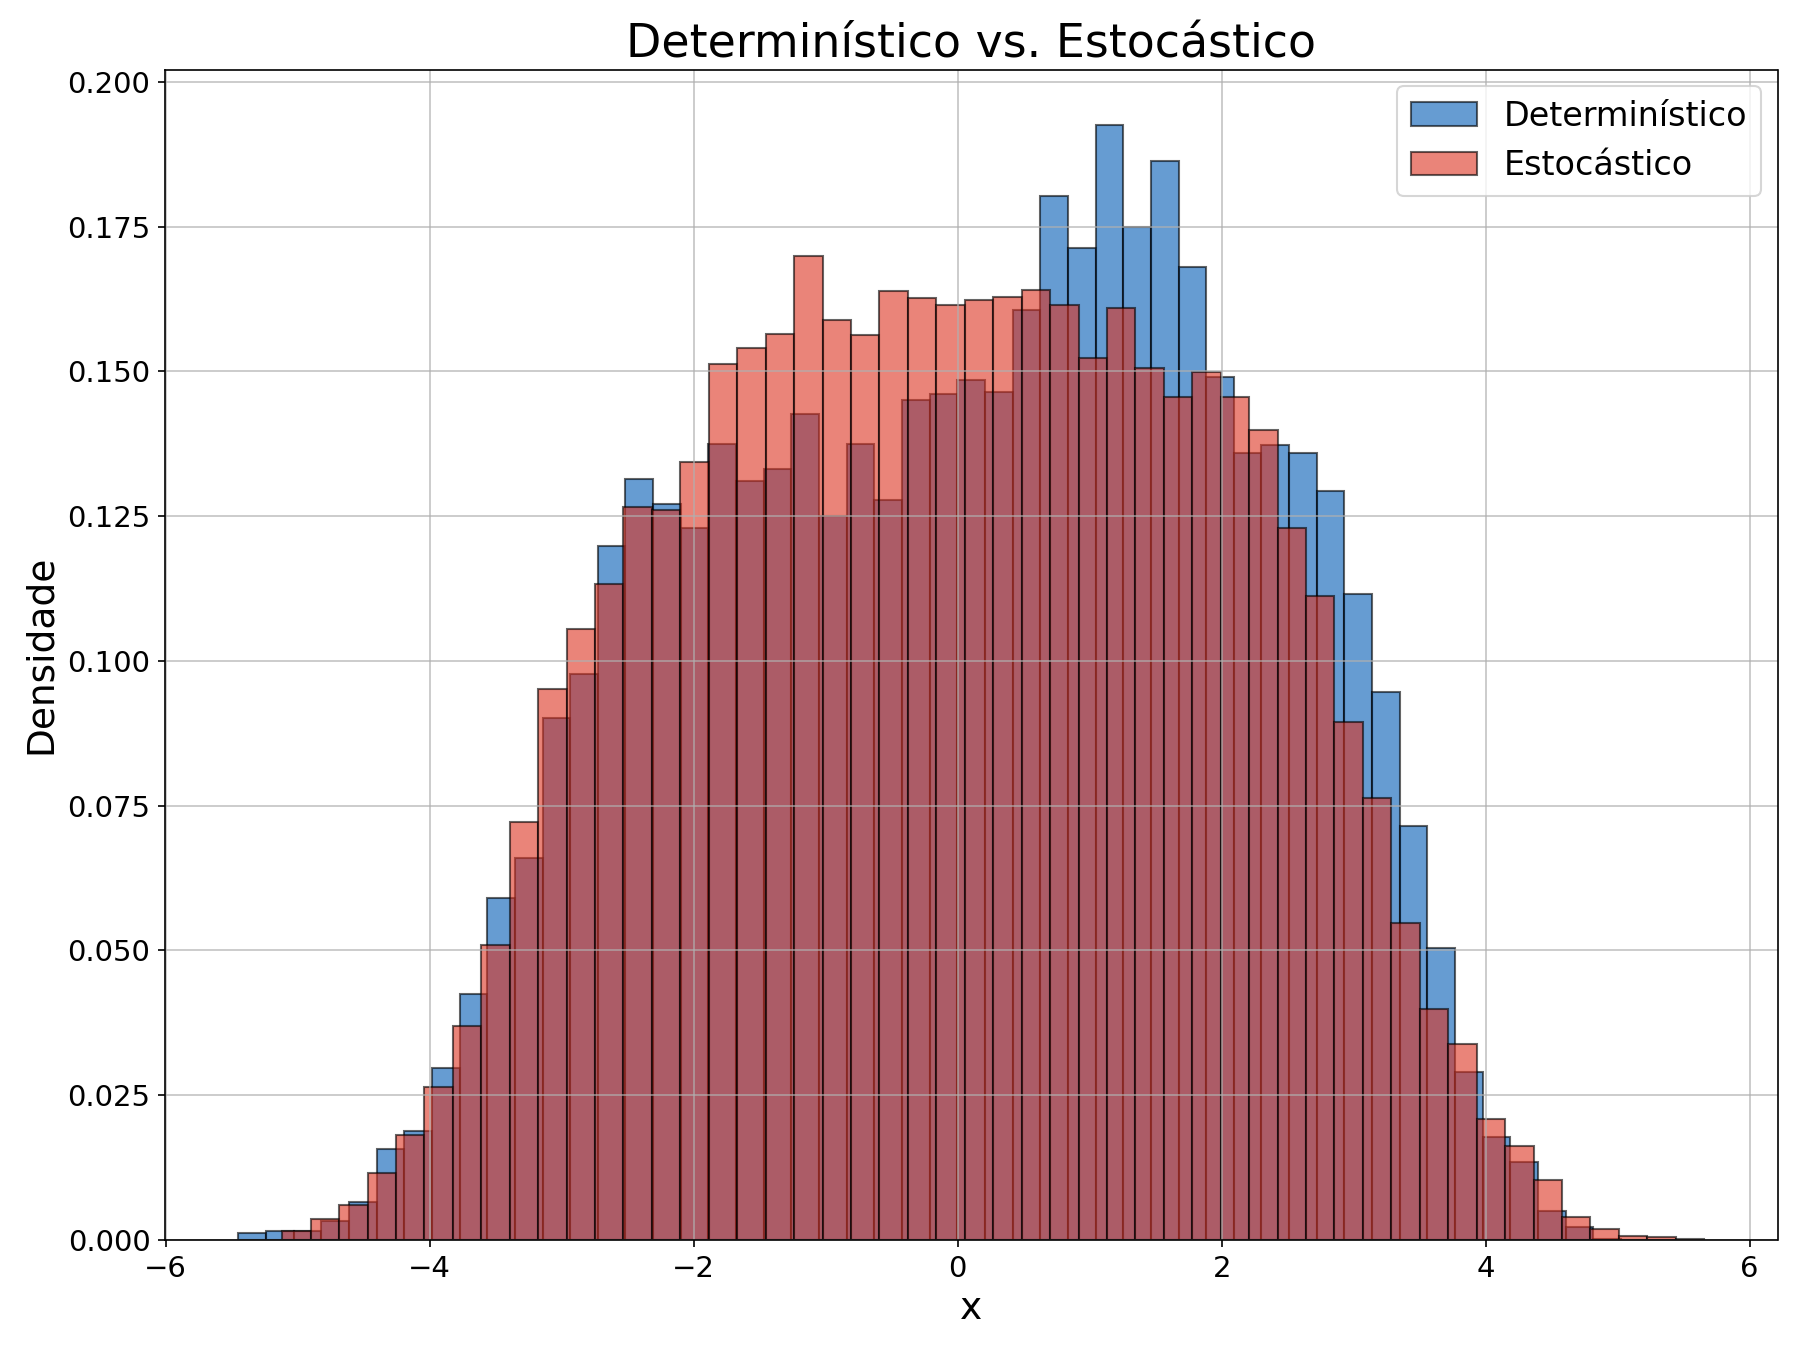
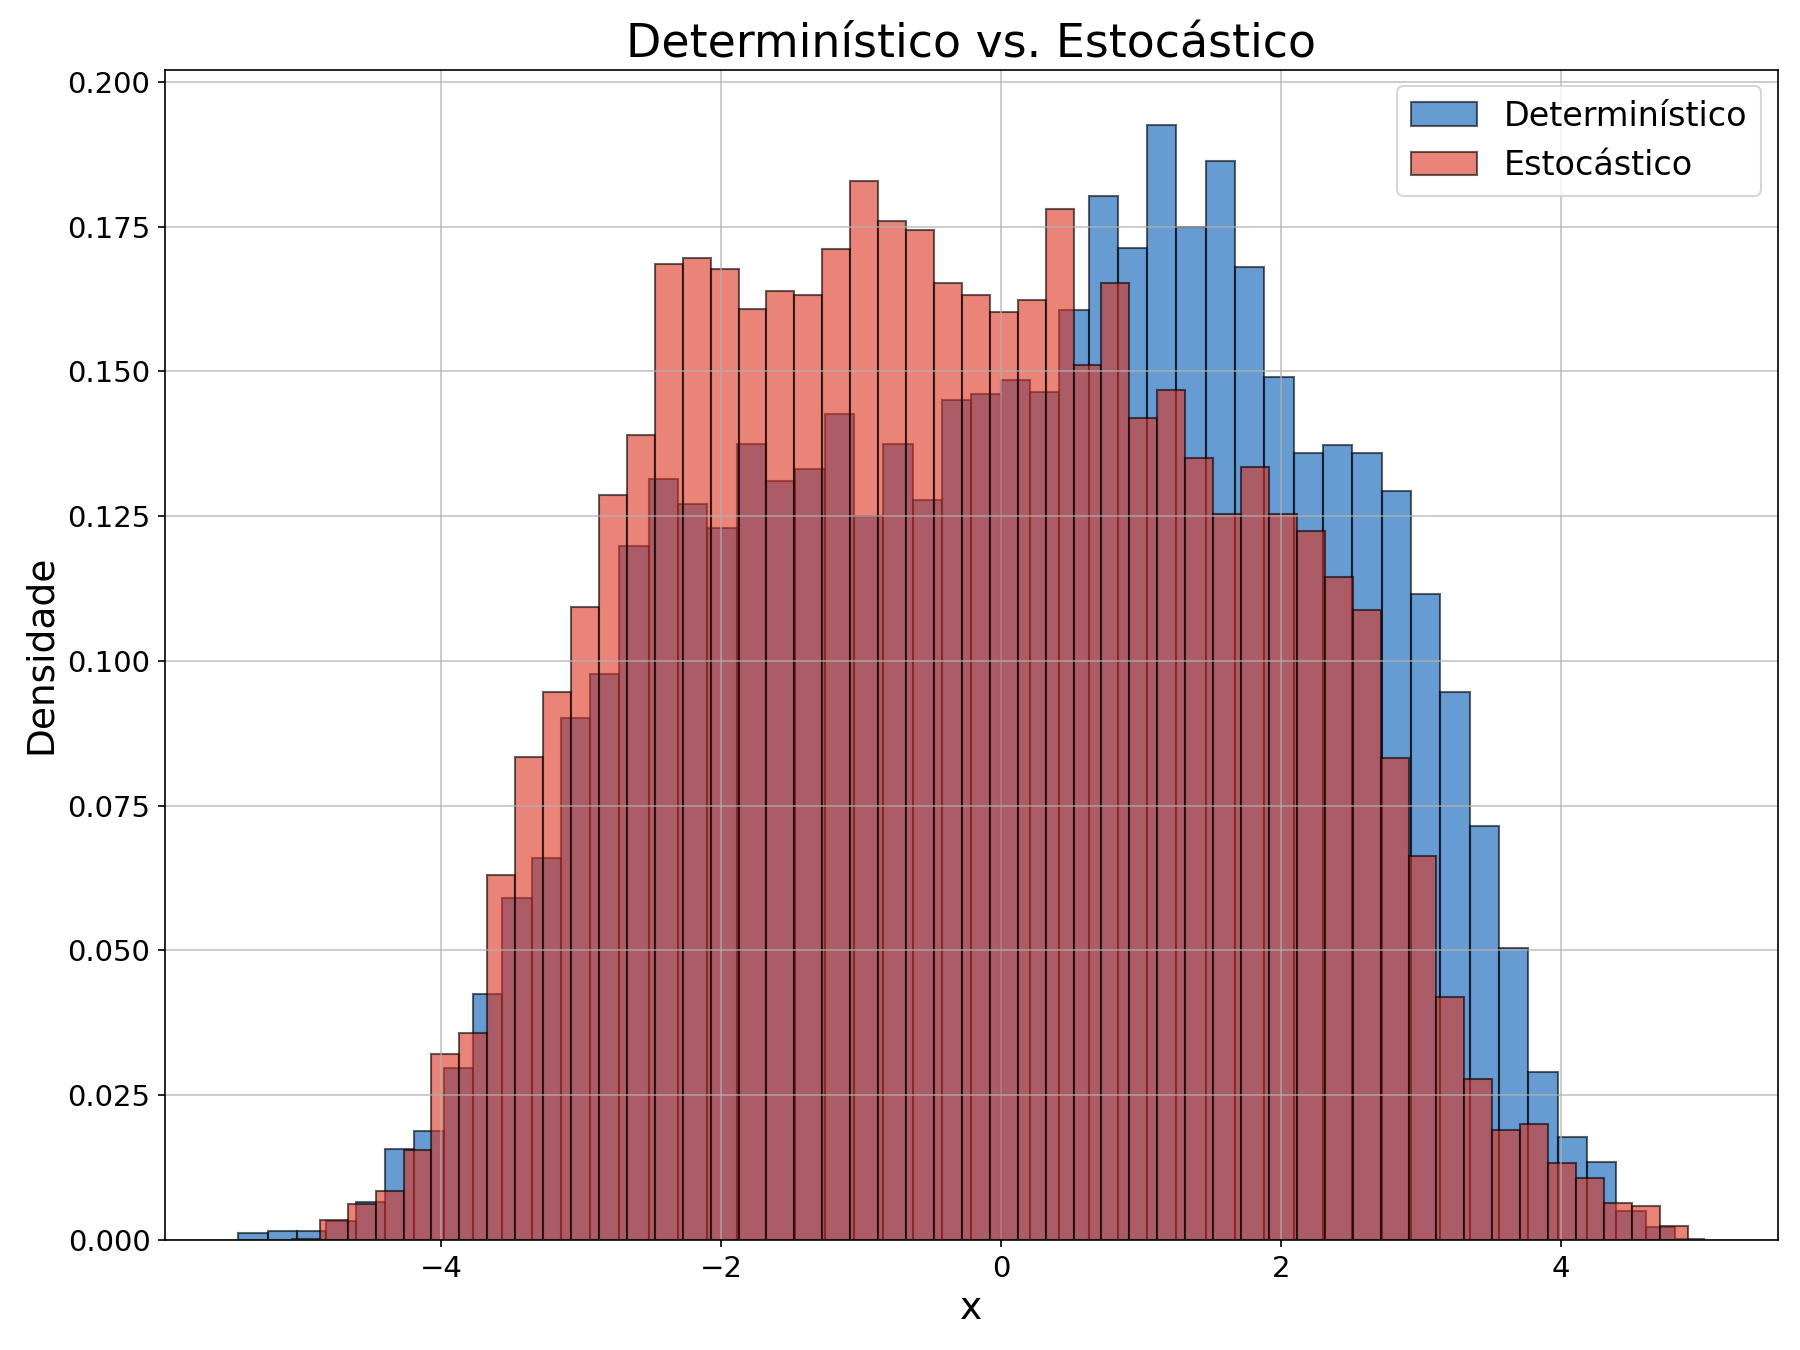
Update simulation parameters and data processing for stochastic model

Changed region(s): [[0.1556, 0.0933, 0.9333, 0.9644]]

diff --git a/05_FAST_CAOTIC_NOISE/limpeza_de_dados.py b/05_FAST_CAOTIC_NOISE/limpeza_de_dados.py
@@ -2,12 +2,12 @@ import pandas as pd
 from pathlib import Path
 
 BASE = Path(__file__).resolve().parent
-DATA = BASE / "data" / "deterministico.csv"
+DATA = BASE / "data" / "estocastico.csv"
 
 
 df = pd.read_csv(DATA)
 n_remove = int(len(df) * 0.25)
 df_filtrado = df.iloc[n_remove:].reset_index(drop=True)
-OUTFILE = BASE / "data" / "deterministico_limpo.csv"
+OUTFILE = BASE / "data" / "estocastico_limpo.csv"
 df_filtrado.to_csv(OUTFILE, index=False)
 print(f'Dados foram limpos e salvos em: {OUTFILE}')
